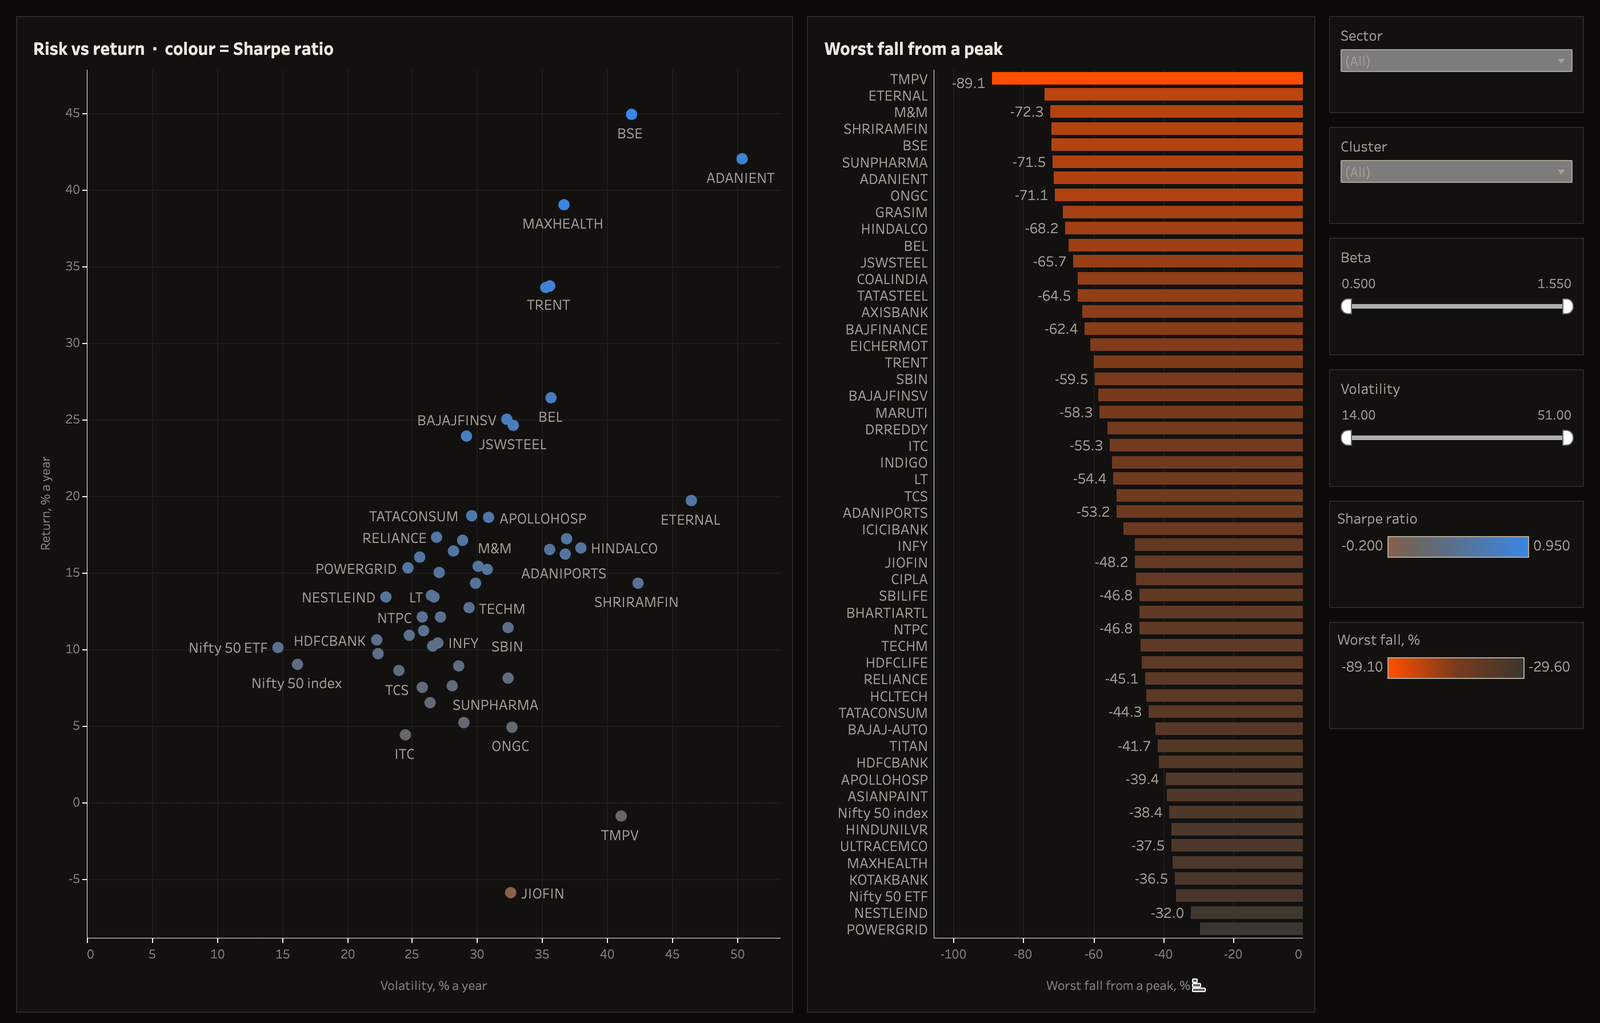
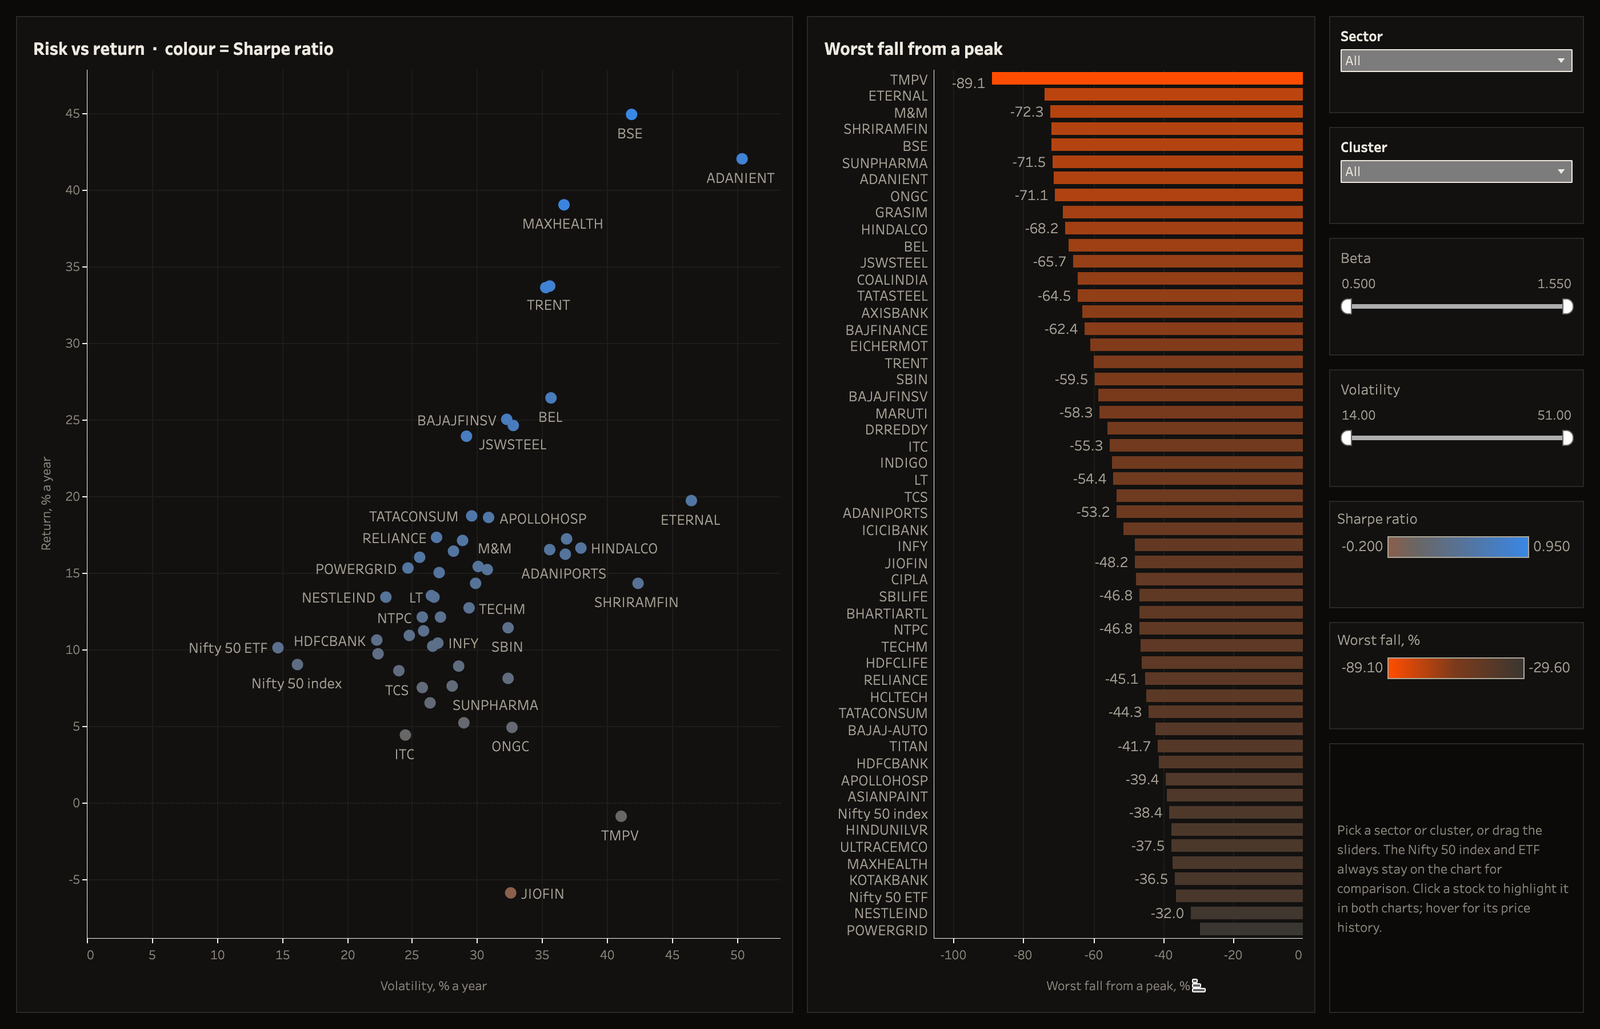
Refresh dashboard screenshots now the dashboards have filters

diff --git a/README.md b/README.md
@@ -41,7 +41,7 @@ The 10 clusters mostly follow NSE sectors, with a few differences: "Financial Se
 
 ## Dashboard
 
-Two tabs on [Tableau Public](https://public.tableau.com/app/profile/chayan.gulgulia/viz/Nifty50RiskRegimesandBacktests/Strategies): strategies and regimes, and risk for each stock. Filters for strategy, sector, cluster, beta and volatility, and the charts highlight together when you hover or click.
+Two tabs on [Tableau Public](https://public.tableau.com/app/profile/chayan.gulgulia/viz/Nifty50RiskRegimesandBacktests/Strategies): strategies and regimes, and risk for each stock. Pick a strategy, group, sector or cluster, or drag the date, beta and volatility sliders (the index and ETF always stay on for comparison), and the charts highlight together when you hover or click.
 
 ![Strategies tab](images/dashboard_strategies.png)
 
